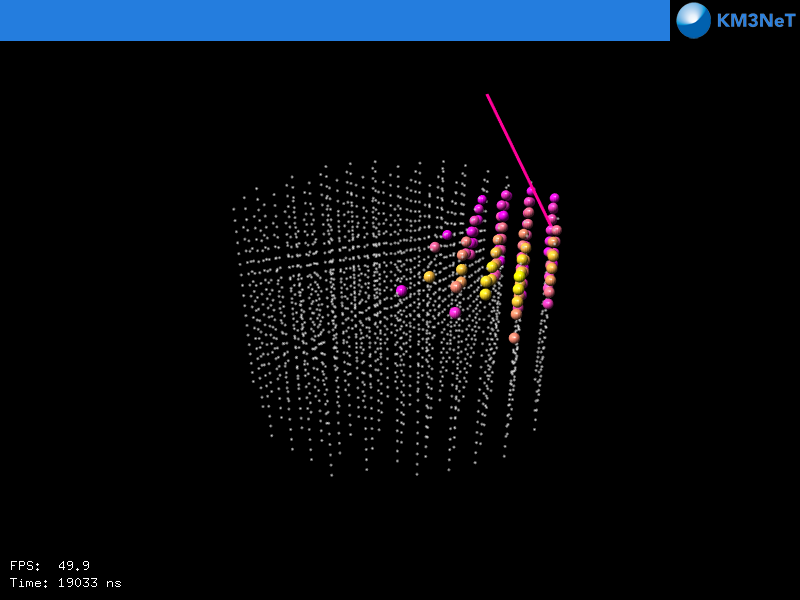
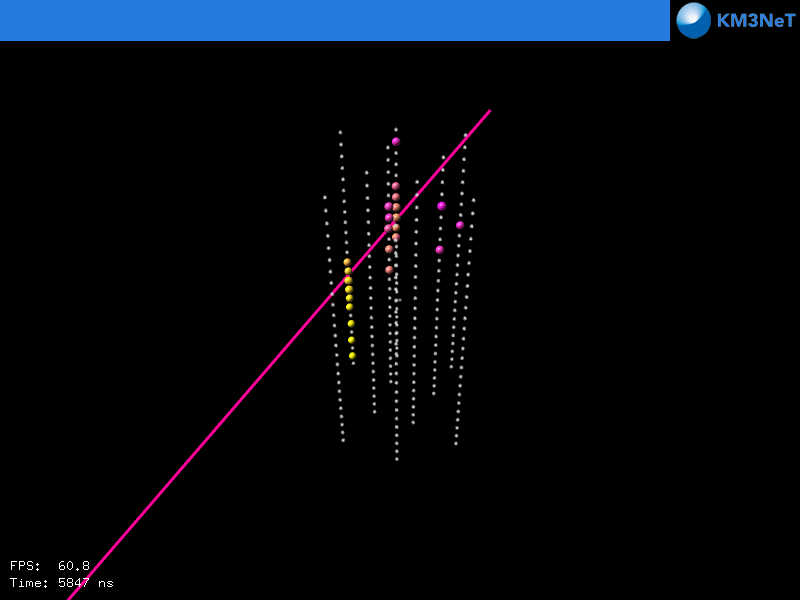
Changes spectrum to red-blue

diff --git a/antares.py b/antares.py
@@ -101,7 +101,7 @@ class RainbowAlga(object):
             diff = max_time - min_time
             one_percent = diff/100
             progress = (time - min_time) / one_percent / 100
-            return (1, 1-progress, progress)
+            return (1-progress, 0, progress)
         self.spectrum = spectrum
 
         self.mouse_x = None

diff --git a/rainbowalga/physics.py b/rainbowalga/physics.py
@@ -48,7 +48,7 @@ class Hit(object):
         glColor3f(*color)
         #glEnable(GL_COLOR_MATERIAL)
         #glColorMaterial(GL_FRONT, GL_DIFFUSE)
-        glutSolidSphere(5, 16, 16)
+        glutSolidSphere(5, 32, 32)
         #glDisable(GL_COLOR_MATERIAL)
 
 
